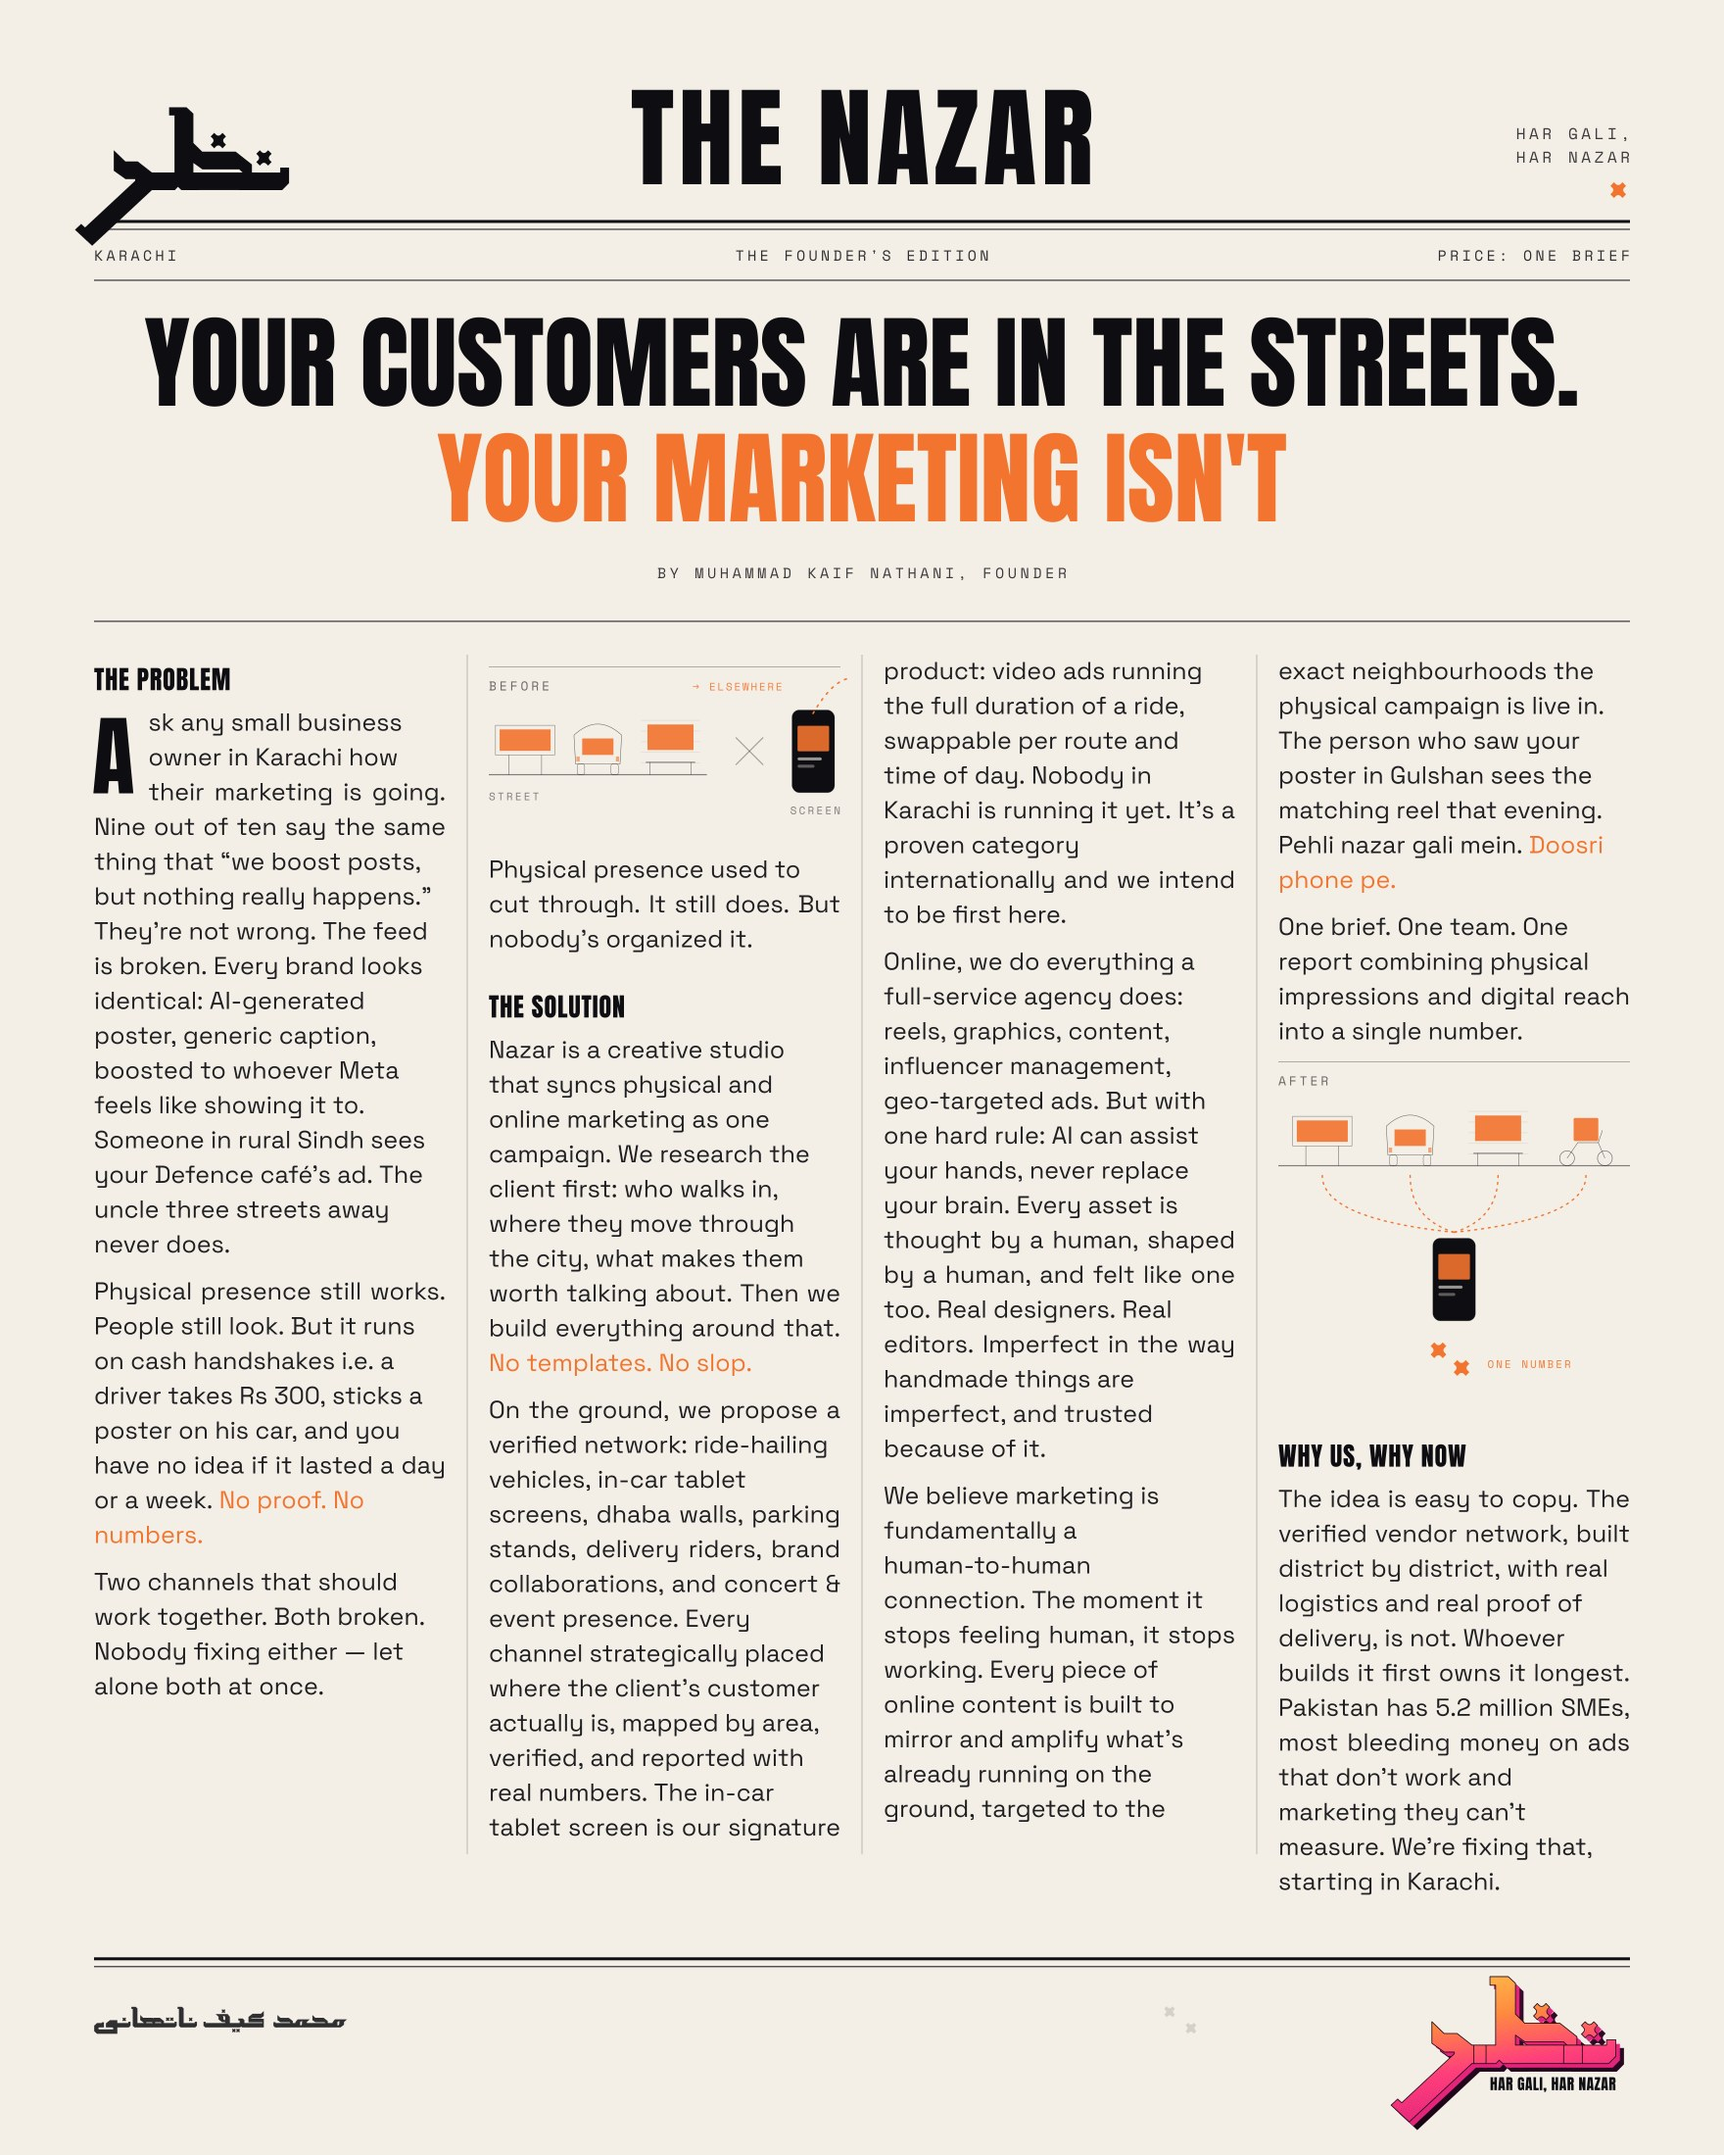
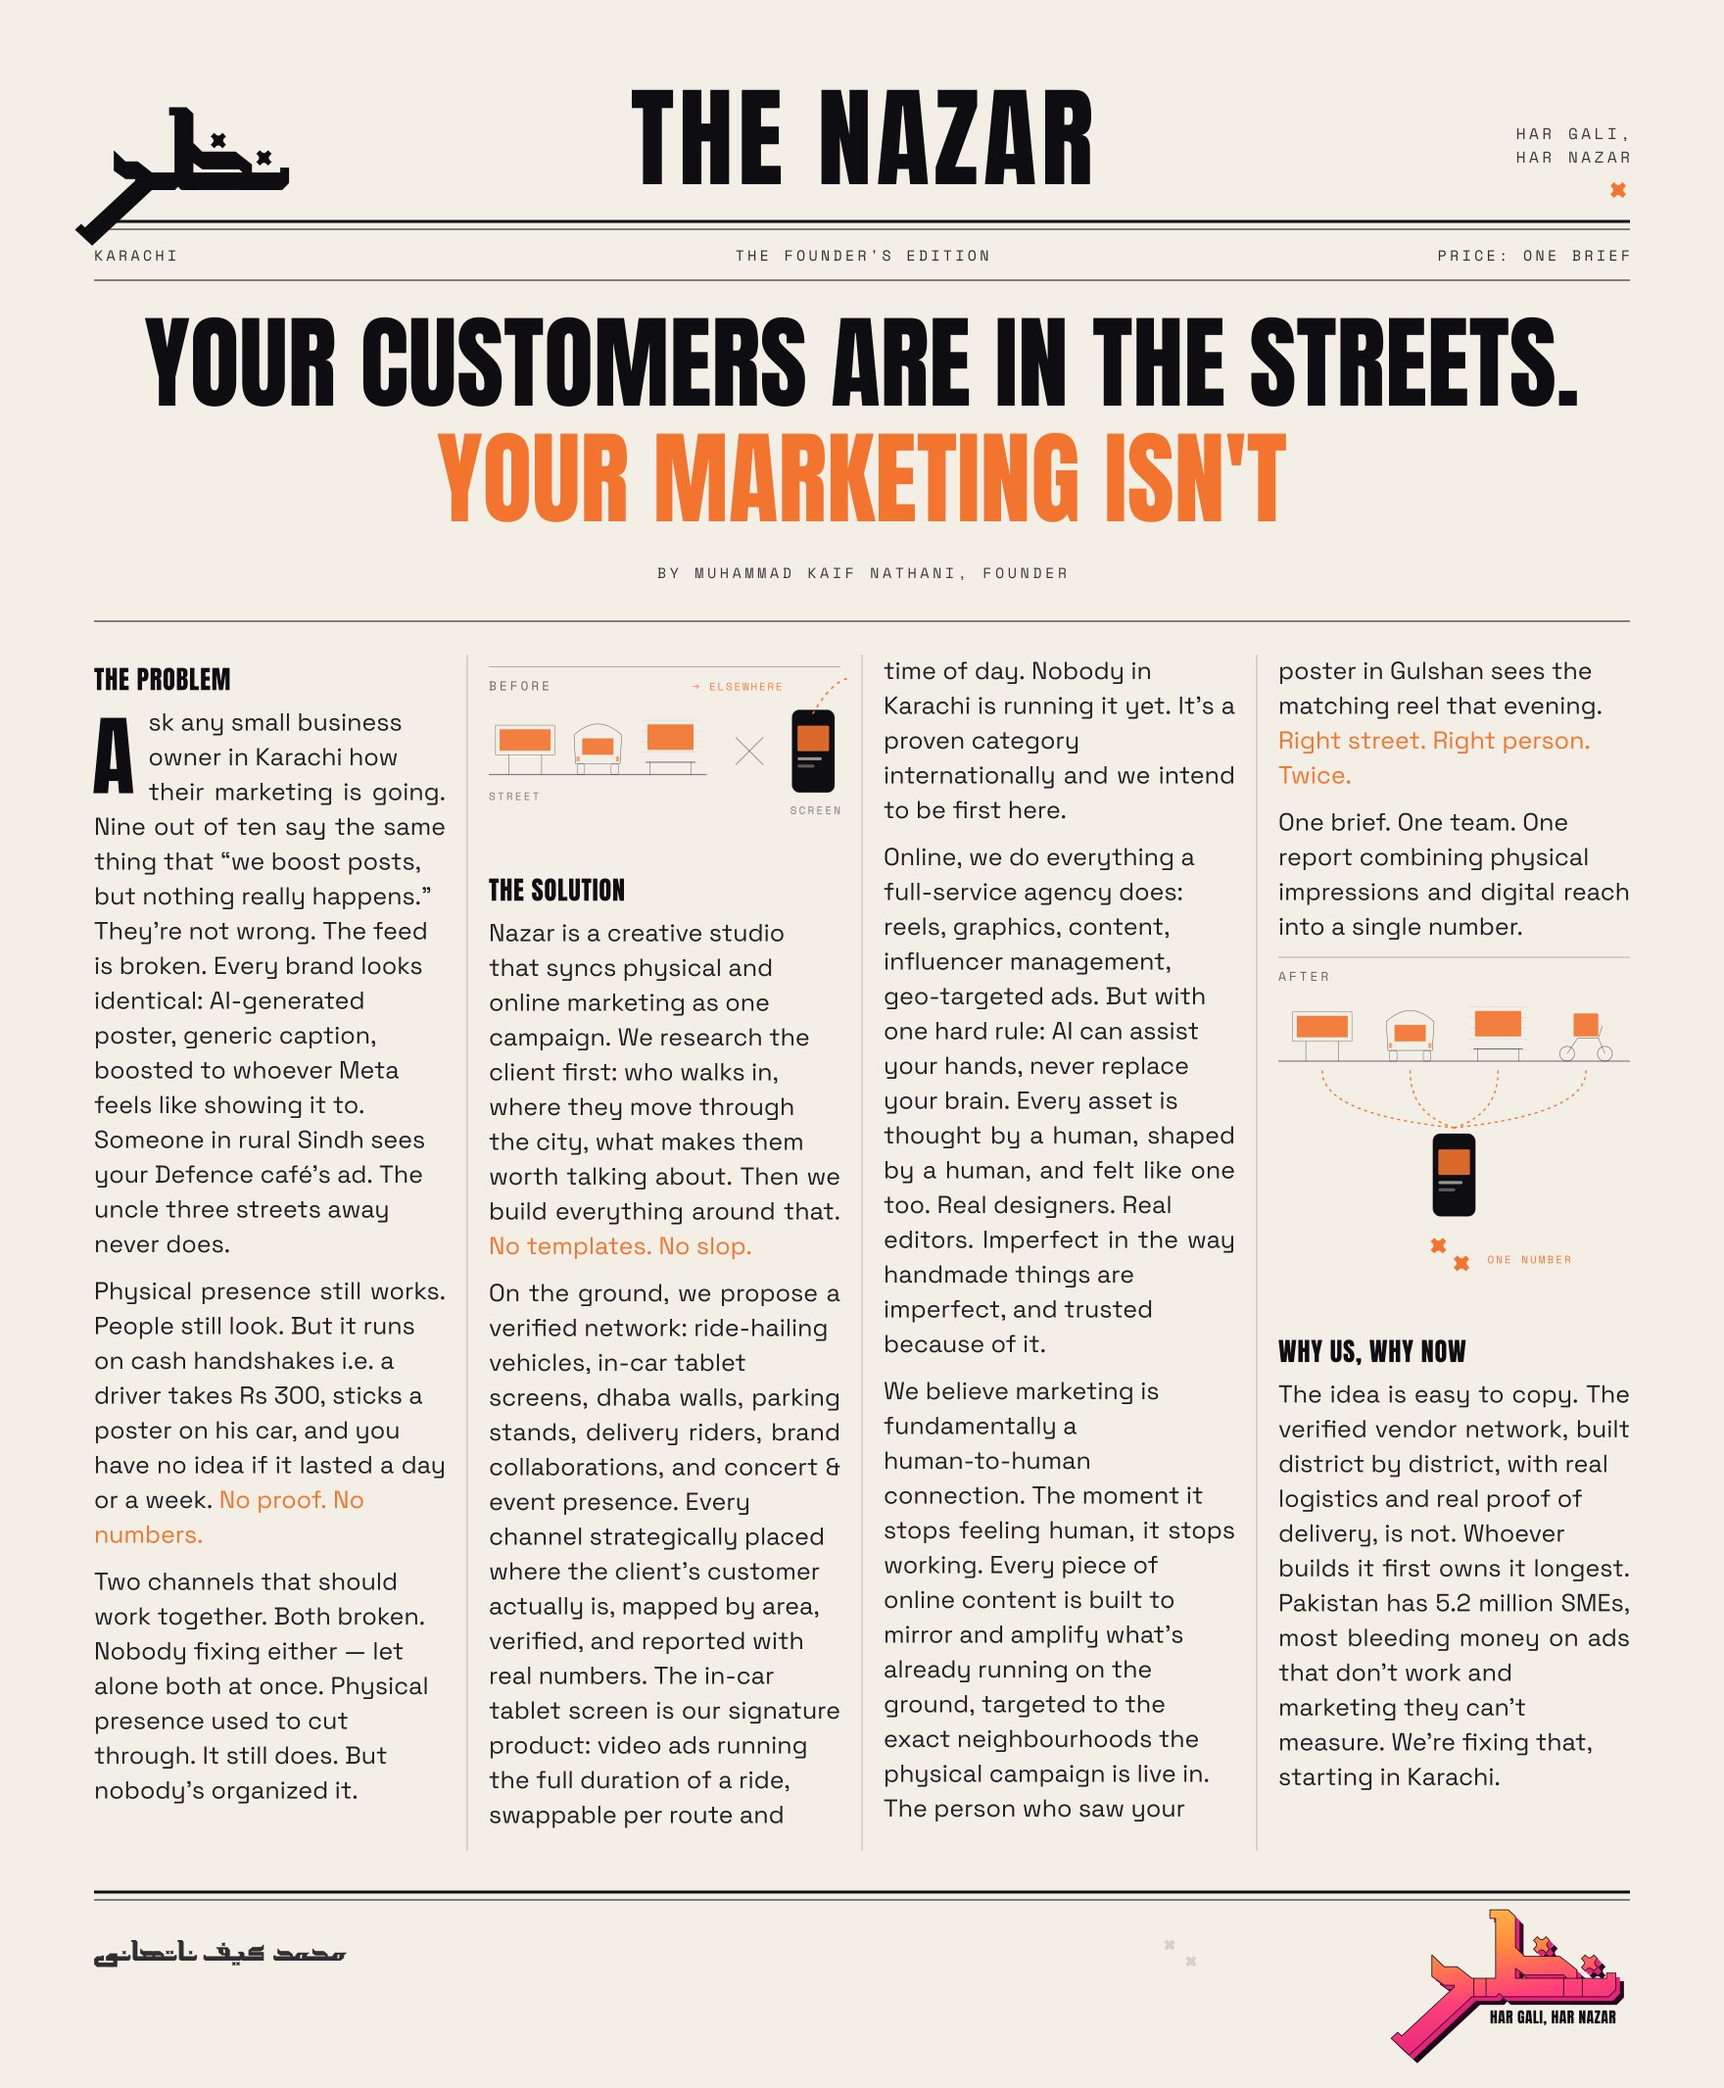
Founder's note: restore 'Right street. Right person. Twice.' and the original paragraphing; ai_tells: house cadence isn't a tell

Changed region(s): [[0.0625, 0.3097, 0.9375, 0.9911], [0.0312, 0.0619, 0.9375, 0.2787], [0.0312, 0.3097, 0.25, 0.8672]]

diff --git a/nazar-core/references/ai_tells.md b/nazar-core/references/ai_tells.md
@@ -43,7 +43,7 @@ The root cause is the same everywhere: generators and unbriefed designers fall b
 |---|---|
 | "Delve", "elevate", "seamless", "leverage", "robust", "tapestry", "unlock", "journey" | Plain, specific words in the brand's voice |
 | "It's not just X, it's Y" / "More than just…" | Say what it is |
-| Everything in threes | Vary the rhythm. Use two, or four, or one. |
+| Reflexive threes in every sentence | Vary the rhythm. A deliberate house cadence (short beats that land a point) is a voice, not a tell. Keep it where the writer chose it. |
 | Em dashes everywhere | Use punctuation for its purpose, not as a habit |
 | Placeholder names (John Doe, Acme, Lorem) left in | Real or clearly marked sample content |
 | A line that could belong to any brand | Kaif's rule: if you could swap the logo and it still works, it's dead |
